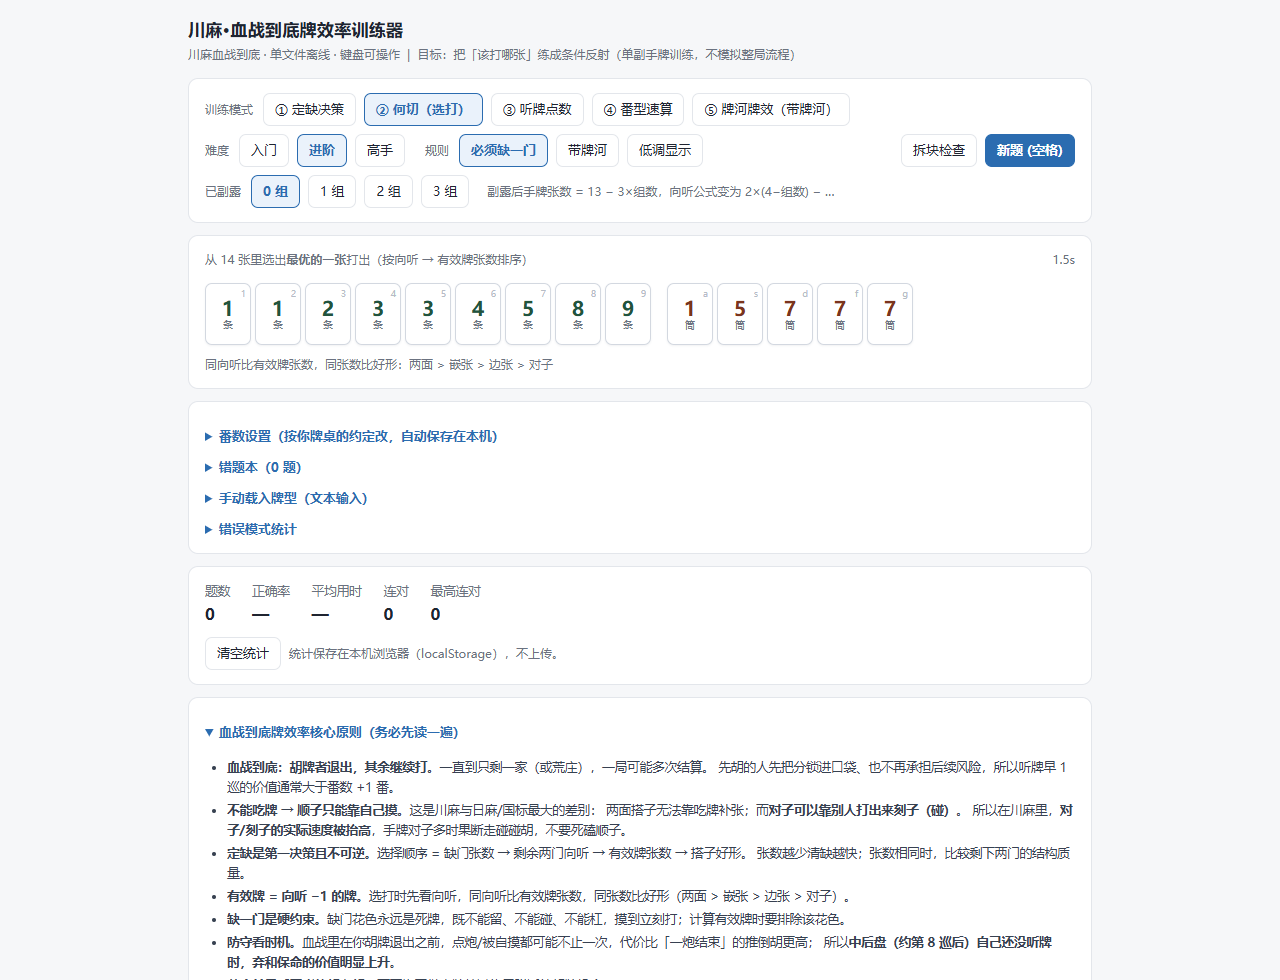
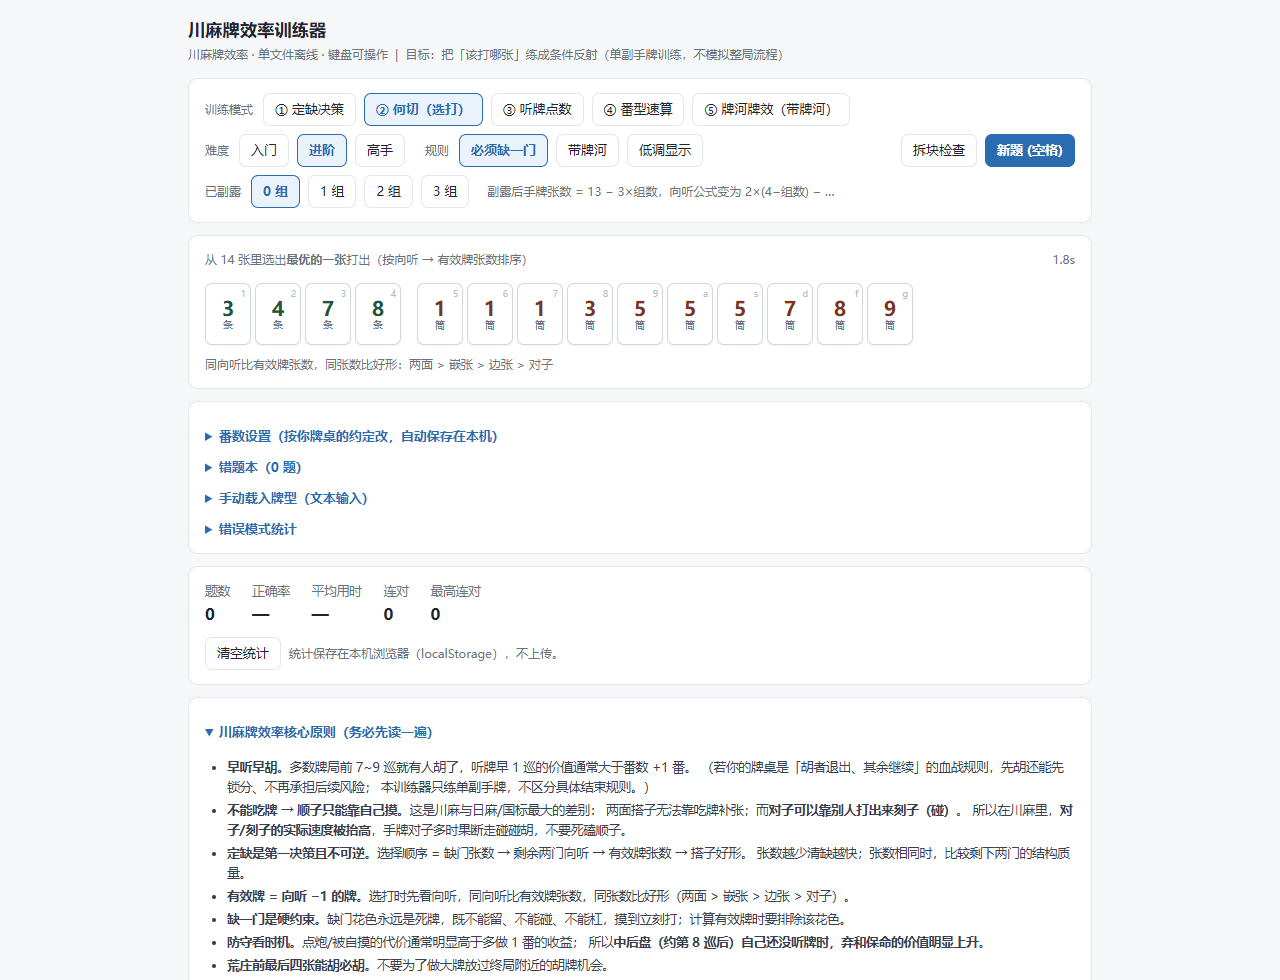
fix(ui): 更正标题与文案为通用川麻牌效率定位
项目只实现单副手牌训练，不包含任何血战到底机制，去掉标题与原则文案中的规则绑定，避免过度承诺。

diff --git a/index.html b/index.html
@@ -3,7 +3,7 @@
 <head>
 <meta charset="utf-8">
 <meta name="viewport" content="width=device-width, initial-scale=1">
-<title>川麻·血战到底牌效率训练器</title>
+<title>川麻牌效率训练器</title>
 <style>
   :root{
     --bg:#f6f7f9; --fg:#1f2430; --mut:#6b7280; --line:#e3e6eb;
@@ -113,8 +113,8 @@
 </head>
 <body>
 <div class="wrap">
-  <h1 id="ttl">川麻·血战到底牌效率训练器</h1>
-  <div class="sub" id="stl">川麻血战到底 · 单文件离线 · 键盘可操作 &nbsp;|&nbsp; 目标：把「该打哪张」练成条件反射（单副手牌训练，不模拟整局流程）</div>
+  <h1 id="ttl">川麻牌效率训练器</h1>
+  <div class="sub" id="stl">川麻牌效率 · 单文件离线 · 键盘可操作 &nbsp;|&nbsp; 目标：把「该打哪张」练成条件反射（单副手牌训练，不模拟整局流程）</div>
 
   <div class="card">
     <div class="bar">
@@ -205,11 +205,12 @@
 
   <div class="card">
     <details open>
-      <summary>血战到底牌效率核心原则（务必先读一遍）</summary>
+      <summary>川麻牌效率核心原则（务必先读一遍）</summary>
       <div class="bd">
         <ul>
-          <li><b>血战到底：胡牌者退出，其余继续打。</b>一直到只剩一家（或荒庄），一局可能多次结算。
-              先胡的人先把分锁进口袋、也不再承担后续风险，所以听牌早 1 巡的价值通常大于番数 +1 番。</li>
+          <li><b>早听早胡。</b>多数牌局前 7~9 巡就有人胡了，听牌早 1 巡的价值通常大于番数 +1 番。
+              （若你的牌桌是「胡者退出、其余继续」的血战规则，先胡还能先锁分、不再承担后续风险；
+              本训练器只练单副手牌，不区分具体结束规则。）</li>
           <li><b>不能吃牌 → 顺子只能靠自己摸。</b>这是川麻与日麻/国标最大的差别：
               两面搭子无法靠吃牌补张；而<b>对子可以靠别人打出来刻子（碰）</b>。
               所以在川麻里，<b>对子/刻子的实际速度被抬高</b>，手牌对子多时果断走碰碰胡，不要死磕顺子。</li>
@@ -217,12 +218,12 @@
               张数越少清缺越快；张数相同时，比较剩下两门的结构质量。</li>
           <li><b>有效牌 = 向听 −1 的牌。</b>选打时先看向听，同向听比有效牌张数，同张数比好形（两面 &gt; 嵌张 &gt; 边张 &gt; 对子）。</li>
           <li><b>缺一门是硬约束。</b>缺门花色永远是死牌，既不能留、不能碰、不能杠，摸到立刻打；计算有效牌时要排除该花色。</li>
-          <li><b>防守看时机。</b>血战里在你胡牌退出之前，点炮/被自摸都可能不止一次，代价比「一炮结束」的推倒胡更高；
+          <li><b>防守看时机。</b>点炮/被自摸的代价通常明显高于多做 1 番的收益；
               所以<b>中后盘（约第 8 巡后）自己还没听牌时，弃和保命的价值明显上升</b>。</li>
           <li><b>荒庄前最后四张能胡必胡。</b>不要为了做大牌放过终局附近的胡牌机会。</li>
         </ul>
         <p class="mut" style="margin-top:8px">
-          规则差异提示：不同牌桌的血战到底在「番数倍率、自摸加番、是否计杠、是否定缺」上会有出入，
+          规则差异提示：不同牌桌在「番数倍率、自摸加番、是否计杠、是否定缺」上会有出入，
           请以你常去的牌桌约定为准，训练器里的开关可按需调整。
         </p>
       </div>
@@ -679,7 +680,7 @@ function shapeTags(counts) {
 }
 
 /* ============================================================
-   和牌判定 + 番型识别 + 计分（川麻·血战到底）
+   和牌判定 + 番型识别 + 计分（川麻）
    ============================================================ */
 
 /* 把 counts 拆成 n 个面子。mode: 'any' 任意 | 'triplet' 全刻 | 'yao' 带幺 */
@@ -1723,7 +1724,7 @@ function showCutResult(q, mine, ok, tied) {
   html += `<div class="sec"><div class="t"><span class="n">${ok ? 5 : 6}</span>关键提示</div>`
     + `<ul style="margin:0;padding-left:20px">${hints.map(h => `<li>${h}</li>`).join('')}</ul>`
     + (tags.length ? `<div class="hint" style="margin-top:8px">牌型方向：${tags.map(t => `<span class="chip">${t}</span>`).join('')}</div>` : '')
-    + `<div class="hint" style="margin-top:8px">读表顺序：① 向听最小 → ② 有效牌最多 → ③ 好形优先（两面&gt;嵌张&gt;边张&gt;对子） → ④ 才比番型。血战到底里先听先胡通常比番数大更重要。</div>`
+    + `<div class="hint" style="margin-top:8px">读表顺序：① 向听最小 → ② 有效牌最多 → ③ 好形优先（两面&gt;嵌张&gt;边张&gt;对子） → ④ 才比番型。先听先胡通常比番数大更重要。</div>`
     + `</div>`;
 
   $('#detail').innerHTML = html;
@@ -1778,7 +1779,7 @@ function onPickTen(v) {
   $('#detail').innerHTML =
     `<div class="res" style="margin-top:6px">听牌：${u.list.map(k => `<span class="chip eff">${cols(k)}</span>`).join('')}</div>` +
     `<div class="hint" style="margin-top:6px">共 <b>${u.list.length}</b> 种、<b>${u.total}</b> 张（已扣除手上持有的张数）。
-      血战到底里「听张数 × 剩余张数」比「听什么番」更值钱：胡一次就结算一次。</div>`;
+      「听张数 × 剩余张数」比「听什么番」更值钱：胡一次就结算一次。</div>`;
   clearBars();
   $('#resultCard').style.display = '';
   $('#resultCard').classList.add('flash');
@@ -1839,10 +1840,10 @@ $('#tRiver').onclick = e => {
 $('#tAka').onclick = e => {
   state.aka = !state.aka;
   e.target.classList.toggle('on', state.aka);
-  $('#ttl').textContent = state.aka ? 'Sequence Drill' : '川麻·血战到底牌效率训练器';
+  $('#ttl').textContent = state.aka ? 'Sequence Drill' : '川麻牌效率训练器';
   $('#stl').textContent = state.aka
     ? 'offline single-file drill'
-    : '川麻血战到底 · 单文件离线 · 键盘可操作  |  目标：把「该打哪张」练成条件反射（单副手牌训练，不模拟整局流程）';
+    : '川麻牌效率 · 单文件离线 · 键盘可操作  |  目标：把「该打哪张」练成条件反射（单副手牌训练，不模拟整局流程）';
   renderWrongBook();
   newQuestion();
 };
